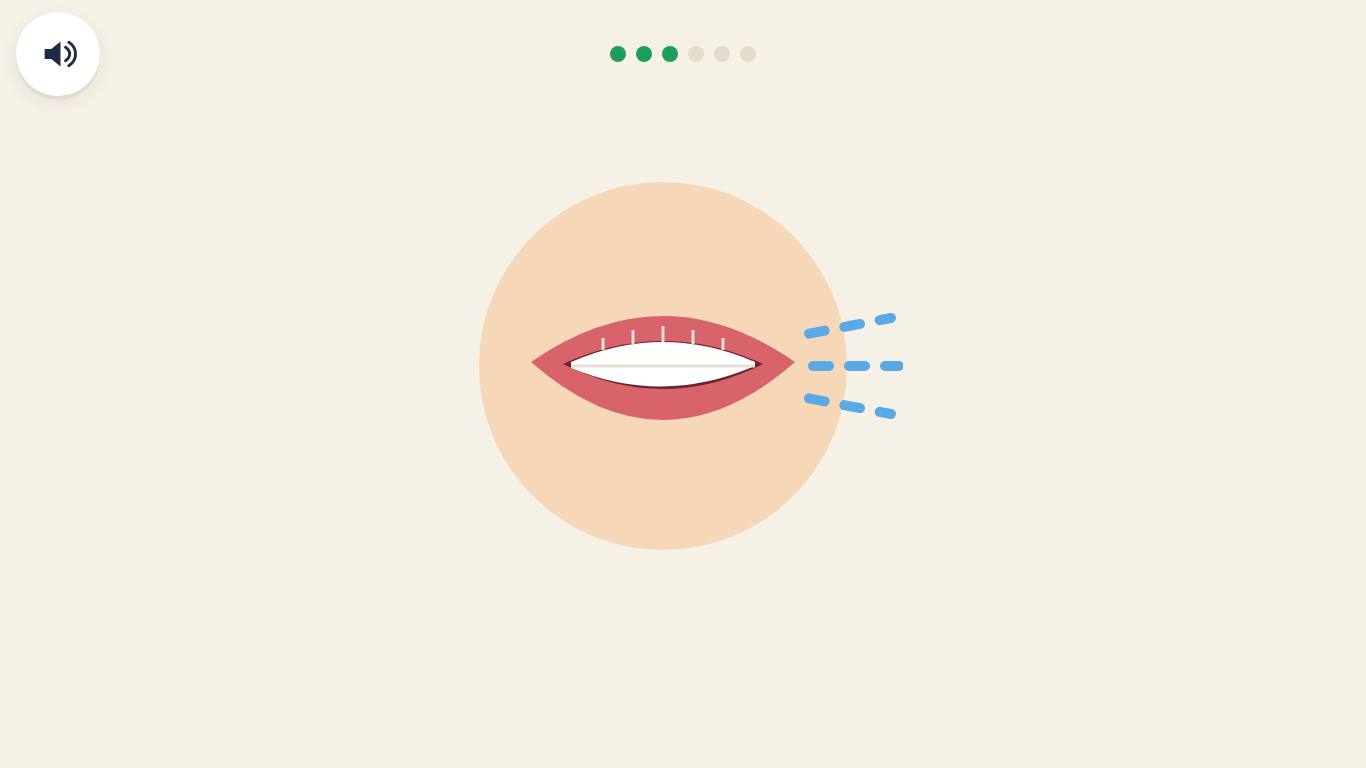
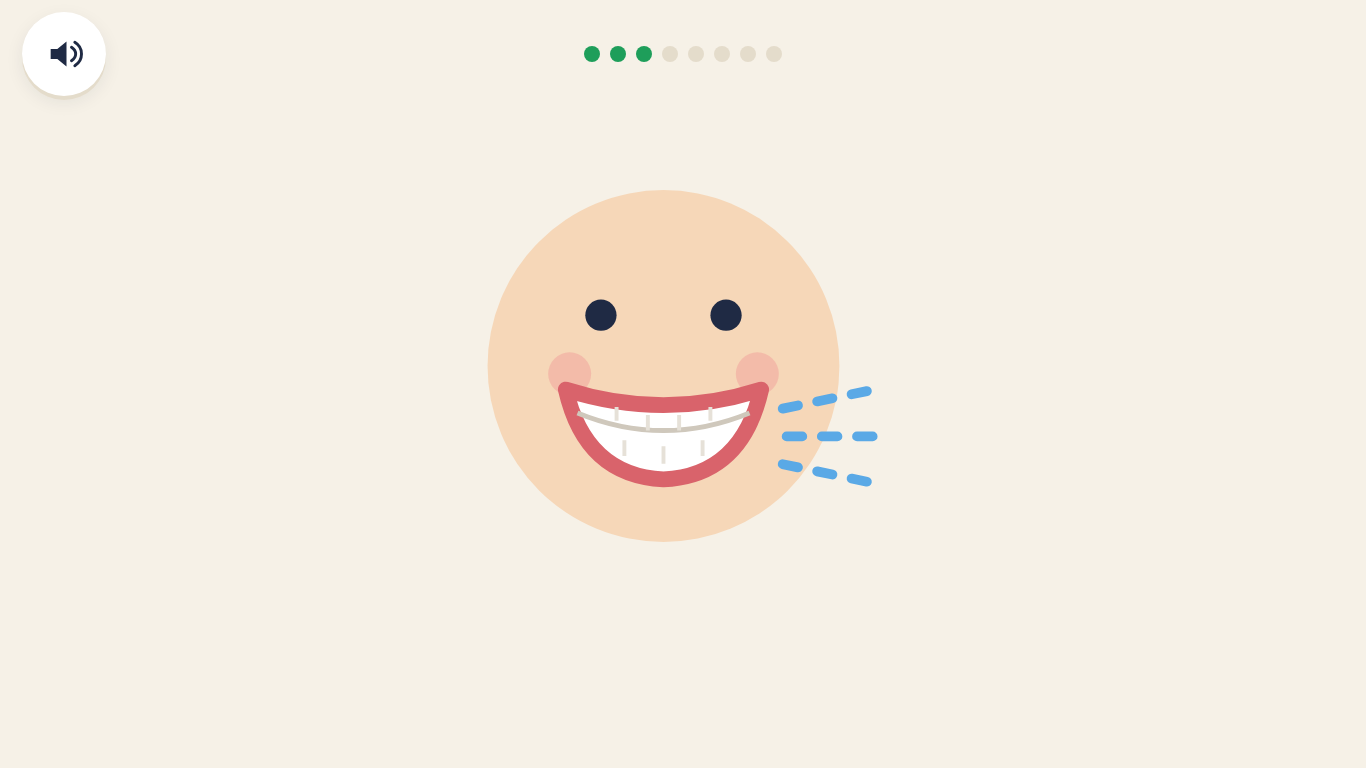
v2 K ABC meet-s: reviewer fixes (hear-again never blocks, friendly mouth face, wiggle chant, is-this-the-snake-sound listening round, snake returns at the end, easier round caps at 2 stars, phone sizing)
Claude-Session: https://claude.ai/code/session_012D4Av8ZSSckJ5NVLEmgCch

diff --git a/v2/app/k-abc/meet-s.html b/v2/app/k-abc/meet-s.html
@@ -15,7 +15,7 @@
 *{ box-sizing:border-box; -webkit-tap-highlight-color:transparent; }
 html,body{ margin:0; height:100%; background:var(--bg); color:var(--ink); font-family:system-ui,-apple-system,"Segoe UI",Roboto,sans-serif; overflow:hidden; user-select:none; -webkit-user-select:none; touch-action:manipulation; }
 #game{ position:fixed; inset:0; display:flex; flex-direction:column; }
-.top{ display:flex; justify-content:space-between; align-items:center; padding:12px 16px; min-height:96px; }
+.top{ display:grid; grid-template-columns:96px 1fr 96px; justify-items:center; align-items:center; padding:12px 16px; min-height:96px; }
 .btn{ border:0; cursor:pointer; display:grid; place-items:center; border-radius:999px; min-width:72px; min-height:72px; background:var(--card); box-shadow:0 4px 0 var(--line), 0 6px 18px rgba(31,42,68,.08); }
 .btn:active{ transform:translateY(3px); box-shadow:0 1px 0 var(--line); }
 .btn svg{ width:40px; height:40px; }
@@ -29,7 +29,7 @@ html,body{ margin:0; height:100%; background:var(--bg); color:var(--ink); font-f
 #next svg{ width:56px; height:56px; }
 #next.show{ visibility:visible; animation:pulse 1.4s ease-in-out infinite; }
 @keyframes pulse{ 0%,100%{ transform:scale(1);} 50%{ transform:scale(1.07);} }
-.pic{ width:min(62vmin,440px); height:min(62vmin,440px); }
+.pic{ width:min(84vw,56vh,440px); height:min(84vw,56vh,440px); }
 .pic.small{ width:min(44vmin,320px); height:min(44vmin,320px); }
 
 /* start */
@@ -160,8 +160,8 @@ html,body{ margin:0; height:100%; background:var(--bg); color:var(--ink); font-f
     var len = c.sampleRate * 2, b = c.createBuffer(1, len, c.sampleRate), d = b.getChannelData(0);
     for (var i = 0; i < len; i++) d[i] = Math.random() * 2 - 1;
     var src = c.createBufferSource(); src.buffer = b; src.loop = true;
-    var hp = c.createBiquadFilter(); hp.type = 'highpass'; hp.frequency.value = 3800;
-    var pk = c.createBiquadFilter(); pk.type = 'peaking'; pk.frequency.value = 6500; pk.Q.value = 1.2; pk.gain.value = 9;
+    var hp = c.createBiquadFilter(); hp.type = 'highpass'; hp.frequency.value = 2600;
+    var pk = c.createBiquadFilter(); pk.type = 'peaking'; pk.frequency.value = 5500; pk.Q.value = 1.2; pk.gain.value = 9;
     var lp = c.createBiquadFilter(); lp.type = 'lowpass'; lp.frequency.value = 10000;
     var g = c.createGain(); g.gain.value = 0;
     src.connect(hp); hp.connect(pk); pk.connect(lp); lp.connect(g); g.connect(c.destination);
@@ -174,6 +174,14 @@ html,body{ margin:0; height:100%; background:var(--bg); color:var(--ink); font-f
   function hissStop() {
     if (!live || !AC) return; var n = live; live = null;
     n.g.gain.setTargetAtTime(0, AC.currentTime, 0.05); setTimeout(function () { try { n.src.stop(); } catch (e) {} }, 300);
+  }
+  function hum(ms) {
+    var c = ac(); window.__abc.hum++; if (!c) return wait(ms || 1200);
+    var o = c.createOscillator(), f = c.createBiquadFilter(), g = c.createGain(), t0 = c.currentTime, d = (FAST ? 10 : (ms || 1200)) / 1000;
+    o.type = 'sawtooth'; o.frequency.value = 135; f.type = 'lowpass'; f.frequency.value = 650;
+    g.gain.setValueAtTime(0, t0); g.gain.linearRampToValueAtTime(.2, t0 + .06); g.gain.setValueAtTime(.2, t0 + d - .1); g.gain.linearRampToValueAtTime(0, t0 + d);
+    o.connect(f); f.connect(g); g.connect(c.destination); o.start(t0); o.stop(t0 + d + .05);
+    return wait(ms || 1200);
   }
   function hiss(ms) { hissStart(); return wait(ms || 1300).then(hissStop); }
   function chime(ok) {
@@ -207,23 +215,30 @@ html,body{ margin:0; height:100%; background:var(--bg); color:var(--ink); font-f
   function preload(lines) { if (FAST) return; lines.forEach(function (t) { if (typeof t === 'string' && !vcache[t]) fetch(TTS, { method: 'POST', headers: { 'Content-Type': 'application/json' }, body: JSON.stringify({ text: t, voice: 'teacher' }) }).then(function (r) { return r.json(); }).then(function (j) { if (j && j.ok && j.url) vcache[t] = j.url; }).catch(function () {}); }); }
 
   /* a script is a list of: "spoken line" | {hiss:ms} | {wait:ms} | function */
-  var cur = [], runTok = 0;
+  var cur = [], runTok = 0, echoTok = 0, busy = false;
   function play(script) {
-    var my = ++runTok; cur = script;
+    var my = ++runTok; echoTok++; cur = script; busy = true;
     return script.reduce(function (p, s) { return p.then(function () {
       if (my !== runTok) return;
       if (typeof s === 'string') return say(s);
       if (typeof s === 'function') return s();
       if (s.hiss) return hiss(s.hiss);
+      if (s.hum) return hum(s.hum);
       if (s.wait) return wait(s.wait);
-    }); }, Promise.resolve()).then(function () { return my === runTok; });
+    }); }, Promise.resolve()).then(function () { if (my === runTok) busy = false; return my === runTok; });
   }
-  againBtn.onclick = function () { hush(); play(cur.filter(function (s) { return typeof s === 'string' || (s && s.hiss); })); };
+  /* "hear it again": only repeats the words and sounds; it never stops the screen from moving on. While the voice is still talking, it waits. */
+  againBtn.onclick = function () {
+    window.__abc.again++; if (busy) return;
+    var my = ++echoTok; hush();
+    cur.filter(function (s) { return typeof s === 'string' || (s && (s.hiss || s.hum)); }).reduce(function (p, s) { return p.then(function () {
+      if (my !== echoTok) return; if (typeof s === 'string') return say(s); if (s.hiss) return hiss(s.hiss); if (s.hum) return hum(s.hum); }); }, Promise.resolve());
+  };
 
   /* ---------- flow ---------- */
-  var STEPS = ['intro', 'morph', 'mouth', 'sky', 'hold', 'find', 'end'];
-  var st = window.__abc = { step: -1, name: 'start', stars: 0, round: 0, firstTry: true, misses: 0, easy: false, done: false, said: [], hiss: 0 };
-  var dots = $('#dots'); dots.innerHTML = STEPS.slice(0, 6).map(function () { return '<i></i>'; }).join('');
+  var STEPS = ['intro', 'morph', 'mouth', 'wiggle', 'sky', 'hold', 'listen', 'find', 'end'];
+  var st = window.__abc = { step: -1, name: 'start', stars: 0, round: 0, firstTry: true, misses: 0, easy: false, done: false, said: [], hiss: 0, hum: 0, again: 0 };
+  var dots = $('#dots'); dots.innerHTML = STEPS.slice(0, -1).map(function () { return '<i></i>'; }).join('');
   function showNext(on) { nextBtn.classList.toggle('show', !!on); }
   nextBtn.onclick = function () { if (!nextBtn.classList.contains('show')) return; showNext(false); go(st.step + 1); };
   function go(i) {
@@ -249,17 +264,24 @@ html,body{ margin:0; height:100%; background:var(--bg); color:var(--ink); font-f
     },
     mouth: function () {
       stage.innerHTML = '<svg class="pic" viewBox="0 0 220 200" aria-label="how to make the sound with your mouth">' +
-        '<circle cx="100" cy="100" r="92" fill="#F6D7B8"/>' +
-        '<path d="M34 98 Q100 52 166 98 Q100 156 34 98Z" fill="#D9636B"/>' +
-        '<path d="M50 99 Q100 76 150 99 Q100 124 50 99Z" fill="#6B2430"/>' +
-        '<path d="M54 98 Q100 78 146 98 L146 100 L54 100Z" fill="#fff"/>' +
-        '<path d="M54 100 L146 100 Q100 120 54 101Z" fill="#fff"/>' +
-        '<path d="M54 100 L146 100" stroke="#E6E1D8" stroke-width="1.5"/>' +
-        '<path d="M70 86 L70 92 M85 82 L85 89 M100 80 L100 88 M115 82 L115 89 M130 86 L130 92" stroke="#E6E1D8" stroke-width="1.5"/>' +
-        '<g class="air" stroke="#5AA9E6" stroke-width="5" fill="none" stroke-linecap="round"><path d="M172 84 L214 76"/><path d="M174 100 L218 100"/><path d="M172 116 L214 124"/></g>' +
+        '<circle cx="100" cy="100" r="90" fill="#F6D7B8"/>' +
+        '<circle cx="68" cy="74" r="8" fill="#1F2A44"/><circle cx="132" cy="74" r="8" fill="#1F2A44"/>' +
+        '<circle cx="52" cy="104" r="11" fill="#F2AFA3" opacity=".7"/><circle cx="148" cy="104" r="11" fill="#F2AFA3" opacity=".7"/>' +
+        '<path d="M50 112 Q100 128 150 112 Q140 156 100 158 Q60 156 50 112Z" fill="#fff" stroke="#D9636B" stroke-width="8" stroke-linejoin="round"/>' +
+        '<path d="M56 124 Q100 142 144 124" stroke="#CFC8BC" stroke-width="2.5" fill="none"/>' +
+        '<path d="M76 121 L76 128 M92 125 L92 133 M108 125 L108 133 M124 121 L124 128 M80 138 L80 146 M100 141 L100 150 M120 138 L120 146" stroke="#E6E1D8" stroke-width="2"/>' +
+        '<g class="air" stroke="#5AA9E6" stroke-width="5" fill="none" stroke-linecap="round"><path d="M160 122 L208 112"/><path d="M162 136 L212 136"/><path d="M160 150 L208 160"/></g>' +
         '</svg>';
-      play(['Teeth together. Smile. Blow the air out.', { hiss: 1500 }, { wait: 300 }, 'Now you say it!', { wait: 2200 }]).then(function (ok) { if (ok) showNext(true); });
+      play(['Teeth together. Smile. Blow the air out.', { hiss: 1500 }, { wait: 300 }, 'Now you say it!', { wait: 2000 }, "Let's say it together!", { hiss: 1500 }]).then(function (ok) { if (ok) showNext(true); });
     },
+    wiggle: function () {
+      stage.innerHTML = '<div id="wg">' + snakeSVG('small') + '</div>';
+      var wg = $('#wg'), beat = function (dir) { return function () { wg.style.transform = 'rotate(' + dir * 10 + 'deg) translateX(' + dir * 14 + 'px)'; return hiss(420).then(function () { return wait(200); }); }; };
+      wg.style.transition = 'transform .2s ease';
+      var three = [beat(-1), beat(1), beat(-1), function () { wg.style.transform = ''; return wait(400); }];
+      play(['Wiggle like a snake with me!', { wait: 300 }].concat(three, ['Again!'], three, ['You wiggled like a snake!'])).then(function (ok) { if (ok) showNext(true); });
+    },
+    listen: function () { st.lround = 0; listenRound(); },
     sky: function () {
       stage.innerHTML = '<div style="display:flex;align-items:center;gap:24px;flex-wrap:wrap;justify-content:center">' +
         '<svg class="pic" viewBox="0 0 200 200" aria-label="draw the letter in the air">' +
@@ -293,15 +315,37 @@ html,body{ margin:0; height:100%; background:var(--bg); color:var(--ink); font-f
     find: function () { st.round = 0; st.stars = 0; round(); },
     end: function () {
       var n = st.stars;
-      stage.innerHTML = '<div class="endbox"><div class="stars">' + [0, 1, 2].map(function (i) { return '<div class="star" id="star' + i + '">' + (i < n ? STAR : STAR_OFF) + '</div>'; }).join('') + '</div>' +
+      stage.innerHTML = '<div class="endbox"><div class="snake-in" style="width:min(30vh,40vw,200px)">' + snakeSVG('').replace('class="pic ', 'style="width:100%;height:auto" class="') + '</div><div class="stars">' + [0, 1, 2].map(function (i) { return '<div class="star" id="star' + i + '">' + (i < n ? STAR : STAR_OFF) + '</div>'; }).join('') + '</div>' +
         '<button class="btn" id="replay" aria-label="Play again" style="visibility:hidden"><svg viewBox="0 0 48 48"><path d="M36 14a15 15 0 1 0 4 12" stroke="#1F2A44" stroke-width="5" fill="none" stroke-linecap="round"/><path d="M38 4v12H26" stroke="#1F2A44" stroke-width="5" fill="none" stroke-linecap="round" stroke-linejoin="round"/></svg></button></div>';
       [0, 1, 2].forEach(function (i) { setTimeout(function () { var s = $('#star' + i); if (s) s.classList.add('pop'); }, FAST ? 0 : 200 + i * 250); });
       chime(true); st.done = true;
       try { var k = 'v2.kabc.meet-s'; var prev = Number(localStorage.getItem(k) || 0); if (n > prev) localStorage.setItem(k, String(n)); } catch (e) {}
       play(['You know the snake sound!', { hiss: 900 }, function () { $('#replay').style.visibility = 'visible'; }]);
-      $('#replay').onclick = function () { st.easy = false; go(0); };
+      $('#replay').onclick = function () { st.easy = false; st.done = false; go(0); };
     }
   };
+
+  /* listening (links back to Unit 1): a sound plays; is it the snake sound? tap the snake for yes, the X for no. */
+  var LSN = [{ s: 'hum', snake: false }, { s: 'hiss', snake: true }];
+  function listenRound() {
+    var r = LSN[st.lround], snd = r.s === 'hiss' ? { hiss: 1200 } : { hum: 1200 }, locked = false;
+    stage.innerHTML = '<div style="display:flex;flex-direction:column;align-items:center;gap:20px">' +
+      '<button class="btn" id="ear" aria-label="hear the sound" style="width:110px;height:110px"><svg viewBox="0 0 48 48" style="width:60px;height:60px"><path d="M8 18h8l11-9v30l-11-9H8z" fill="#1F2A44"/><path d="M33 16c3 2 5 5 5 8s-2 6-5 8M37 10c5 3 8 8 8 14s-3 11-8 14" stroke="#1F2A44" stroke-width="3.5" fill="none" stroke-linecap="round"/></svg></button>' +
+      '<div class="tiles two"><button class="tile" data-a="yes" aria-label="yes, the snake">' + snakeSVG('').replace(/class="pic "/, 'style="width:100%;height:100%"') + '</button>' +
+      '<button class="tile" data-a="no" aria-label="no"><svg viewBox="0 0 200 200"><circle cx="100" cy="100" r="70" fill="#F1ECE2"/><path d="M68 68 L132 132 M132 68 L68 132" stroke="#9AA1AE" stroke-width="22" stroke-linecap="round"/></svg></button></div></div>';
+    $('#ear').onclick = function () { hush(); play([snd]); };
+    [].forEach.call(stage.querySelectorAll('.tile'), function (b) {
+      b.onclick = function () {
+        if (locked) return; var right = (b.dataset.a === 'yes') === r.snake;
+        hush();
+        if (right) { locked = true; b.classList.add('yes'); chime(true);
+          play([r.snake ? 'Yes! That is the snake sound.' : 'Right! That is not the snake.', r.snake ? { hiss: 700 } : { wait: 100 }]).then(function (ok) { if (!ok) return; st.lround++; if (st.lround < LSN.length) listenRound(); else go(st.step + 1); });
+        } else { chime(false); b.classList.remove('no'); void b.offsetWidth; b.classList.add('no');
+          play(['Listen again.', snd, 'The snake sounds like this.', { hiss: 1000 }]); }
+      };
+    });
+    play([st.lround === 0 ? 'Listen. Is this the snake sound?' : 'Listen again. Is this the snake sound?', snd]);
+  }
 
   /* find the snake letter: 3 rounds; a star for each one found on the first try.
      Fewer than 2 stars -> he sees the snake inside the letter again, then tries with only 2 choices (easier, more help). */
@@ -328,6 +372,7 @@ html,body{ margin:0; height:100%; background:var(--bg); color:var(--ink); font-f
     play([st.round === 0 ? 'Find the snake letter!' : 'Find the snake letter again!']);
   }
   function afterRounds() {
+    if (st.easy) st.stars = Math.min(st.stars, 2);   /* with extra help he can pass, but not with full stars */
     if (st.stars >= 2 || st.easy) return go(STEPS.indexOf('end'));
     st.easy = true;
     stage.innerHTML = '<svg class="pic" viewBox="0 0 200 200">' + snakeInner() + '<path d="' + S + '" stroke="var(--ink)" stroke-width="22" fill="none" stroke-linecap="round"/></svg>';

diff --git a/v2/tests/k-abc-meet-s.js b/v2/tests/k-abc-meet-s.js
@@ -33,11 +33,18 @@ module.exports = async function (browser) {
       if (await pg.evaluate(() => window.__abc.hiss) <= h0) bad(label + ': tapping the snake makes no sound');
       await next(); await step('morph'); await pg.waitForSelector('#next.show', { timeout: 15000 }); await need('the snake becomes the letter');
       await next(); await step('mouth'); await pg.waitForSelector('#next.show', { timeout: 15000 }); await need('the mouth picture');
+      await next(); await step('wiggle'); await pg.waitForSelector('#next.show', { timeout: 15000 }); await need('wiggle like a snake');
       await next(); await step('sky'); await pg.waitForSelector('#did', { state: 'visible', timeout: 15000 }); await need('draw it in the air'); await pg.click('#did', { force: true });
       await step('hold'); await need('hold for a long sound');
       const b = await (await pg.$('#hold')).boundingBox(); await pg.mouse.move(b.x + b.width / 2, b.y + b.height / 2); await pg.mouse.down(); await pg.waitForTimeout(300); await pg.mouse.up();
-      await next(); await step('find'); await pg.waitForSelector('.tile'); await need('find the snake letter');
-      if (await pg.$$eval('.tile', t => t.length) !== 4) bad(label + ': find-it should show 4 letters');
+      await next(); await step('listen'); await pg.waitForSelector('.tile[data-a]'); await need('is this the snake sound');
+      if (!(await pg.evaluate(() => window.__abc.hum > 0))) bad(label + ': the listening round plays no sound');
+      await pg.click('.tile[data-a="yes"]'); await pg.waitForTimeout(100);   // round 1 is a hum: "yes" is wrong
+      if (!(await pg.evaluate(() => window.__abc.said.some(t => /listen again/i.test(t))))) bad(label + ': a wrong answer in the listening round is not explained');
+      await pg.click('.tile[data-a="no"]'); await pg.waitForFunction(() => window.__abc.lround === 1, null, { timeout: 10000 });
+      await pg.waitForSelector('.tile[data-a="yes"]:not(.yes)'); await pg.click('.tile[data-a="yes"]');
+      await step('find'); await pg.waitForSelector('.tile[data-k]'); await need('find the snake letter');
+      if (await pg.$$eval('.tile[data-k]', t => t.length) !== 4) bad(label + ': find-it should show 4 letters');
       await pg.click('.tile:not([data-k="s"])'); await pg.waitForSelector('.tile.hint', { timeout: 10000 }).catch(() => bad(label + ': a wrong tap does not show him the right letter'));
       if (!(await pg.evaluate(() => window.__abc.said.some(t => /not that one/i.test(t))))) bad(label + ': a wrong tap is not explained');
       for (let r = 0; r < 3; r++) { await pg.waitForSelector('.tile[data-k="s"]:not(.yes)', { timeout: 10000 }); await pg.click('.tile[data-k="s"]'); }
@@ -49,13 +56,18 @@ module.exports = async function (browser) {
       if (st.said.some(t => t.split(/\s+/).length > 12)) bad(label + ': a spoken line is longer than 12 words');
       // a boy who struggles: two misses -> he sees the snake inside the letter again and gets an easier round (2 choices)
       await pg.waitForSelector('#replay', { state: 'visible', timeout: 10000 }); await pg.click('#replay', { force: true });
-      await step('intro'); await next(); await step('morph'); await next(); await step('mouth'); await next(); await step('sky');
+      await step('intro'); await next(); await step('morph'); await next(); await step('mouth'); await next(); await step('wiggle'); await next(); await step('sky');
       await pg.waitForSelector('#did', { state: 'visible', timeout: 15000 }); await pg.click('#did', { force: true }); await step('hold');
       const b2 = await (await pg.$('#hold')).boundingBox(); await pg.mouse.move(b2.x + b2.width / 2, b2.y + b2.height / 2); await pg.mouse.down(); await pg.waitForTimeout(300); await pg.mouse.up();
-      await next(); await step('find');
+      await next(); await step('listen');
+      await pg.click('.tile[data-a="no"]'); await pg.waitForFunction(() => window.__abc.lround === 1, null, { timeout: 10000 }); await pg.waitForSelector('.tile[data-a="yes"]:not(.yes)'); await pg.click('.tile[data-a="yes"]');
+      await step('find');
       for (let r = 0; r < 3; r++) { await pg.waitForFunction(k => window.__abc.round === k && !document.querySelector('.tile.yes'), r, { timeout: 10000 });
         if (r < 2) { await pg.click('.tile:not([data-k="s"])'); await pg.waitForSelector('.tile.hint', { timeout: 10000 }); } await pg.click('.tile[data-k="s"]'); }
       await pg.waitForFunction(() => window.__abc.easy && document.querySelectorAll('.tile').length === 2, null, { timeout: 15000 }).catch(() => bad(label + ': a boy with 1 star does not get the easier round'));
+      for (let r = 0; r < 3; r++) { await pg.waitForFunction(k => window.__abc.round === k && !document.querySelector('.tile.yes'), r, { timeout: 10000 }); await pg.click('.tile[data-k="s"]'); }
+      await pg.waitForFunction(() => window.__abc.done, null, { timeout: 15000 });
+      if (await pg.evaluate(() => window.__abc.stars) > 2) bad(label + ': a boy who needed the easier round got 3 stars');
       if (errs.length) bad(label + ': page errors: ' + errs.join(' | '));
     } catch (e) { let at = ''; try { at = await pg.evaluate(() => window.__abc && (window.__abc.name + ' round ' + window.__abc.round)); } catch (x) {} bad(label + ' (at ' + at + '): ' + String(e.message || e).split('\n')[0].slice(0, 200)); }
     await ctx.close();
